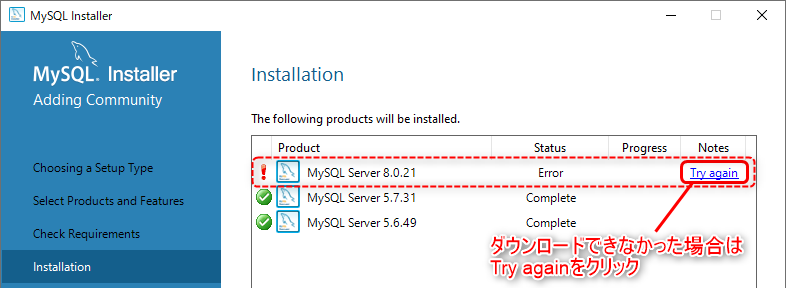
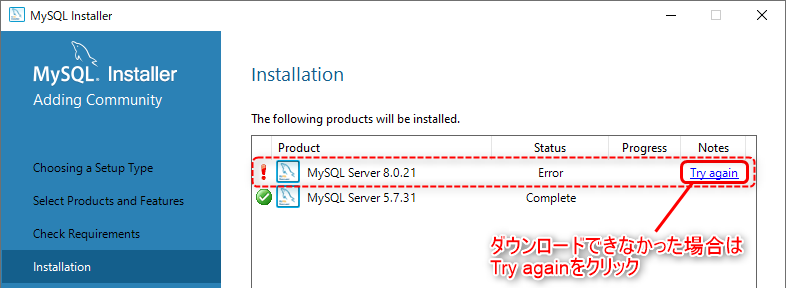
install-windows.md

Changed region(s): [[0.3053, 0.7188, 0.5496, 0.8125], [0.6718, 0.75, 0.7328, 0.8125]]

diff --git a/howto/install-windows.md b/howto/install-windows.md
@@ -59,7 +59,10 @@ MySQLのダウンロードページ [https://www.mysql.com/jp/downloads/](https:
 
 <a href="images/2020-09-30-19-41-00.png"><img src="images/2020-09-30-19-41-00.png" width="300" /></a>
 <a href="images/2020-09-30-19-43-33.png"><img src="images/2020-09-30-19-43-33.png" width="300" /></a>  
+<a href="images/2020-09-30-23-51-24.png"><img src="images/2020-09-30-23-51-24.png" width="400" /></a>
 <a href="images/2020-09-30-19-43-49.png"><img src="images/2020-09-30-19-43-49.png" width="300" /></a>
+
+アップデートのメッセージが出ていた場合は「OK」をクリック
 <a href="images/2020-09-30-19-44-03.png"><img src="images/2020-09-30-19-44-03.png" width="300" /></a>
 
 サーバーだけで良い場合や複数バージョンをインストールしたい場合は「Custom」を選択  
@@ -68,21 +71,15 @@ MySQLのダウンロードページ [https://www.mysql.com/jp/downloads/](https:
 <a href="images/2020-09-30-19-45-43.png"><img src="images/2020-09-30-19-45-43.png" width="400" /></a>
 （他のバージョンが必要な場合は追加）  
 <a href="images/2020-09-30-19-46-49.png"><img src="images/2020-09-30-19-46-49.png" width="400" /></a>
-（他のバージョンが必要な場合は追加）  
-<a href="images/2020-09-30-19-47-43.png"><img src="images/2020-09-30-19-47-43.png" width="400" /></a>
 
 必要なバージョンが選択できたら「Next」をクリック（後で追加することも可能）
 <a href="images/2020-09-30-19-47-55.png"><img src="images/2020-09-30-19-47-55.png" width="400" /></a>
 
-バージョン5.6および5.7の場合、追加ソフトウェア（Microsoft Visual C++のライブラリ）が必要になることがあります。**「Execute」**をクリックすることでインストールできます。
+バージョンによっては追加ソフトウェア（Microsoft Visual C++のライブラリ）が必要になることがあります。**「Execute」**をクリックすることでインストールできます。
 <a href="images/2020-09-30-19-48-26.png"><img src="images/2020-09-30-19-48-26.png" width="400" /></a>
 （Microsoft Visual C++ 2013 ※MySQL 5.7用）
 <a href="images/2020-09-30-19-49-45.png"><img src="images/2020-09-30-19-49-45.png" width="300" /></a>
 <a href="images/2020-09-30-19-49-54.png"><img src="images/2020-09-30-19-49-54.png" width="300" /></a>
-
-（Microsoft Visual C++ 2010 ※MySQL 5.6用）
-<a href="images/2020-09-30-21-22-58.png"><img src="images/2020-09-30-21-22-58.png" width="300" /></a>
-<a href="images/2020-09-30-19-50-16.png"><img src="images/2020-09-30-19-50-16.png" width="300" /></a>
 
 <a href="images/2020-09-30-19-50-26.png"><img src="images/2020-09-30-19-50-26.png" width="400" /></a>
 
@@ -100,35 +97,19 @@ MySQLのダウンロードページ [https://www.mysql.com/jp/downloads/](https:
 
 「Type and Networking」画面で**ポート番号を設定**する  
 複数バージョンをインストールする場合は、バージョン毎にポート番号を変えておく（1024から49451の範囲で指定、デフォルトは3306）  
-<a href="images/2020-09-30-20-04-56.png"><img src="images/2020-09-30-20-04-56.png" width="400" /></a>
-
-管理者用のパスワードを入力し、「Add User」でテスト用のユーザーを追加する  
-<a href="images/2020-09-30-20-06-47.png"><img src="images/2020-09-30-20-06-47.png" width="400" /></a>
-ユーザー名を入力（任意、ここでは「study」）して、ホストは「localhost」にする  
-データベースの作成やデータのインポートを行うユーザーの場合、ロールは「DB Admin」にする  
-パスワードを入力して「OK」をクリック（自分専用のローカルPCで使用する場合は簡単なパスワードでも良い）  
-<a href="images/2020-09-30-20-08-50.png"><img src="images/2020-09-30-20-08-50.png" width="250" /></a>
-
-ユーザーを追加したら「Next」で進める
-<a href="images/2020-09-30-20-12-13.png"><img src="images/2020-09-30-20-12-13.png" width="400" /></a>
-
-デフォルトでは、Windows起動時にMySQLサーバーがWindowsサービスとして起動する（変更可能）  
-<a href="images/2020-09-30-20-30-43.png"><img src="images/2020-09-30-20-30-43.png" width="400" /></a>
-
-「Execute」でインストールを実行（設定を修正したい場合は「Back」で戻る）  
-<a href="images/2020-09-30-20-16-49.png"><img src="images/2020-09-30-20-16-49.png" width="400" /></a>
-<a href="images/2020-09-30-20-17-30.png"><img src="images/2020-09-30-20-17-30.png" width="400" /></a>
-
-複数バージョンをインストールする場合は「Product Configuration」が再度表示されるので「Next」をクリック  
-<a href="images/2020-09-30-20-17-58.png"><img src="images/2020-09-30-20-17-58.png" width="400" /></a>
-同様に設定を行う  
 <a href="images/2020-09-30-20-20-02.png"><img src="images/2020-09-30-20-20-02.png" width="400" /></a>
 
-サーバー管理者用のパスワードを設定し、テスト用のユーザーを追加する  
+管理者用のパスワードを入力し、「Add User」でテスト用のユーザーを追加する  
 <a href="images/2020-09-30-20-26-53.png"><img src="images/2020-09-30-20-26-53.png" width="400" /></a>
+ユーザー名を入力（任意、ここでは「study」）して、ホストは「localhost」にする  
+データベースの作成やデータのインポートを行うユーザーの場合、ロールは「DB Admin」にする  
+パスワードを入力して「OK」をクリック（自分専用のローカルPCで使用する場合は簡単なパスワードでも良い）   
 <a href="images/2020-09-30-21-36-11.png"><img src="images/2020-09-30-21-36-11.png" width="250" /></a>
+ユーザーを追加したら「Next」で進める  
 <a href="images/2020-09-30-20-31-56.png"><img src="images/2020-09-30-20-31-56.png" width="400" /></a>
+デフォルトでは、Windows起動時にMySQLサーバーがWindowsサービスとして起動する（変更可能）  
 <a href="images/2020-09-30-20-33-15.png"><img src="images/2020-09-30-20-33-15.png" width="400" /></a>
+「Execute」でインストールを実行（設定を修正したい場合は「Back」で戻る）  
 <a href="images/2020-09-30-20-33-49.png"><img src="images/2020-09-30-20-33-49.png" width="400" /></a>
 <a href="images/2020-09-30-20-34-15.png"><img src="images/2020-09-30-20-34-15.png" width="400" /></a>
 
@@ -168,10 +149,6 @@ MySQL 8.0の場合、「Authentication Method」画面が表示される
 
 バージョン5.7.x：  
 <a href="images/2020-09-30-20-57-43.png"><img src="images/2020-09-30-20-57-43.png" width="500" /></a>
-
-バージョン5.6.x：  
-<a href="images/2020-09-30-20-57-58.png"><img src="images/2020-09-30-20-57-58.png" width="500" /></a>
-
 
 <a id="markdown-データベースの作成" name="データベースの作成"></a>
 ### データベースの作成
